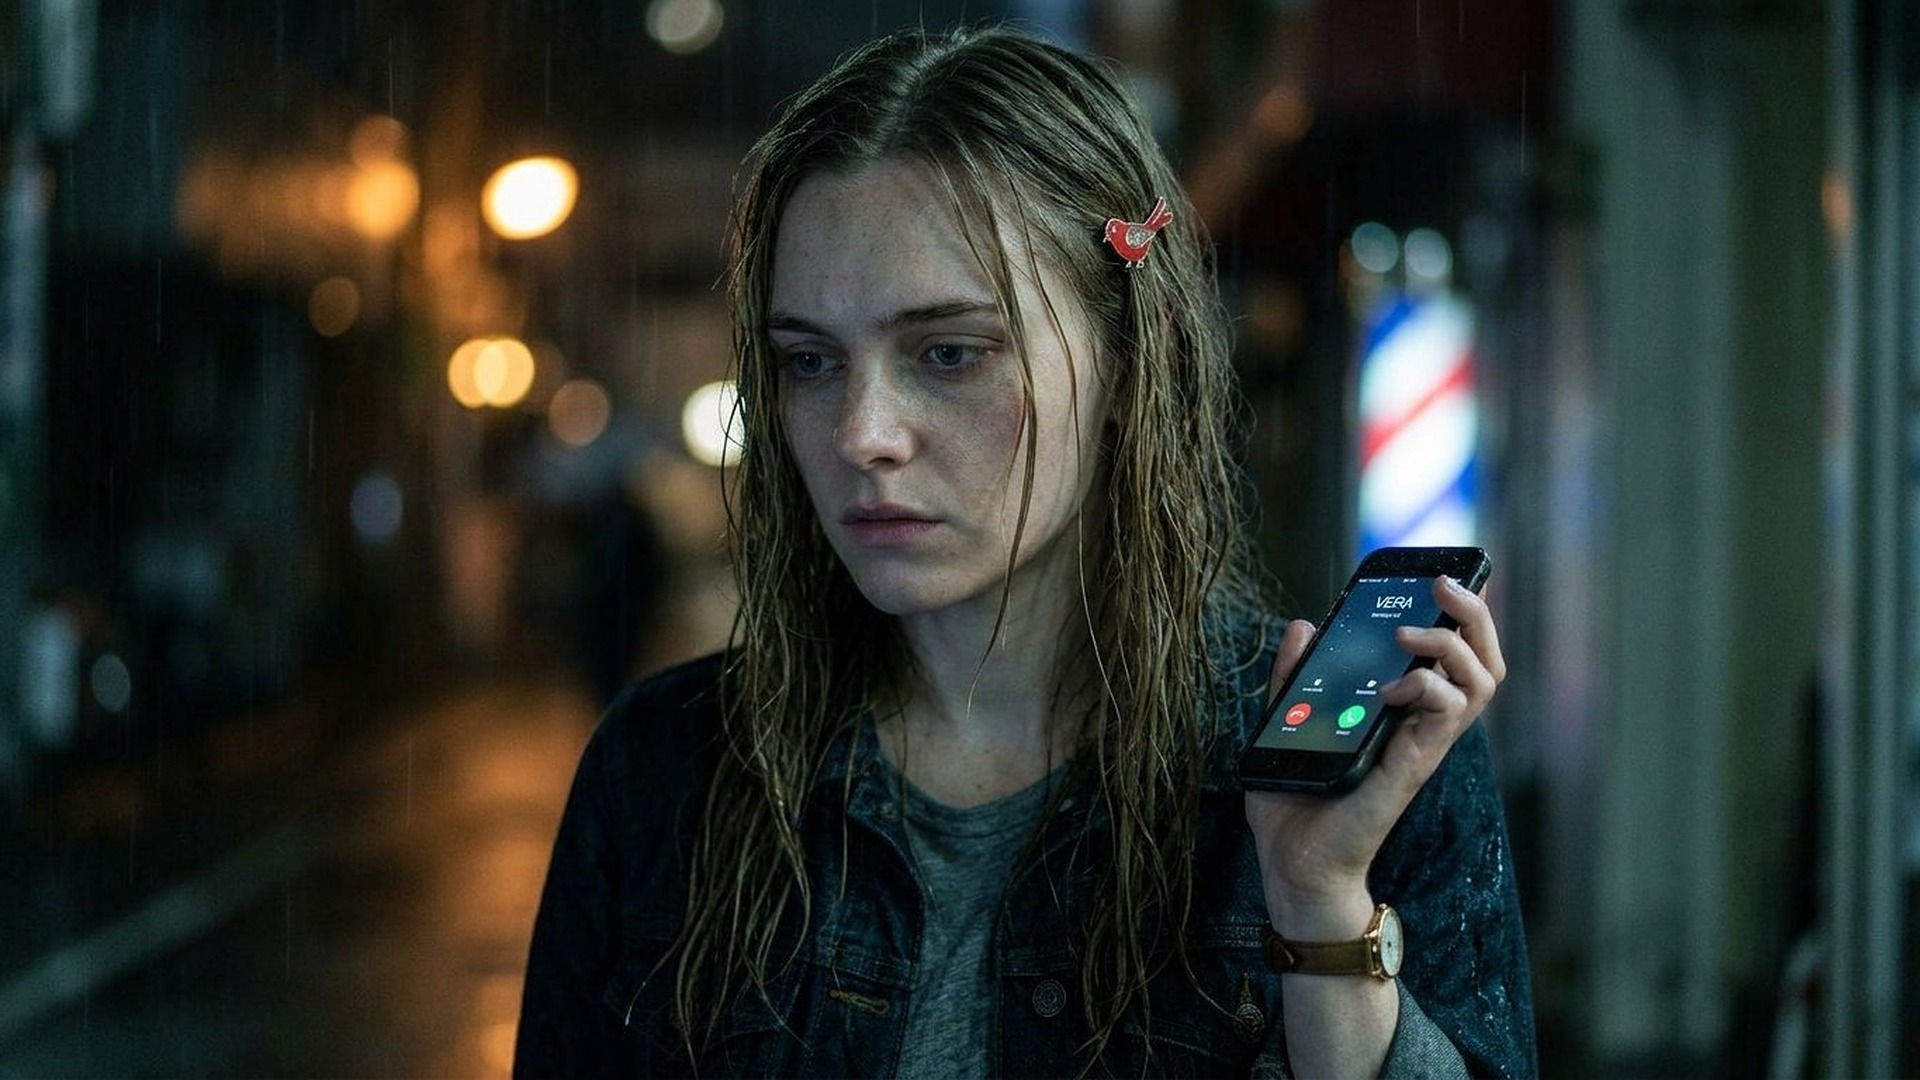
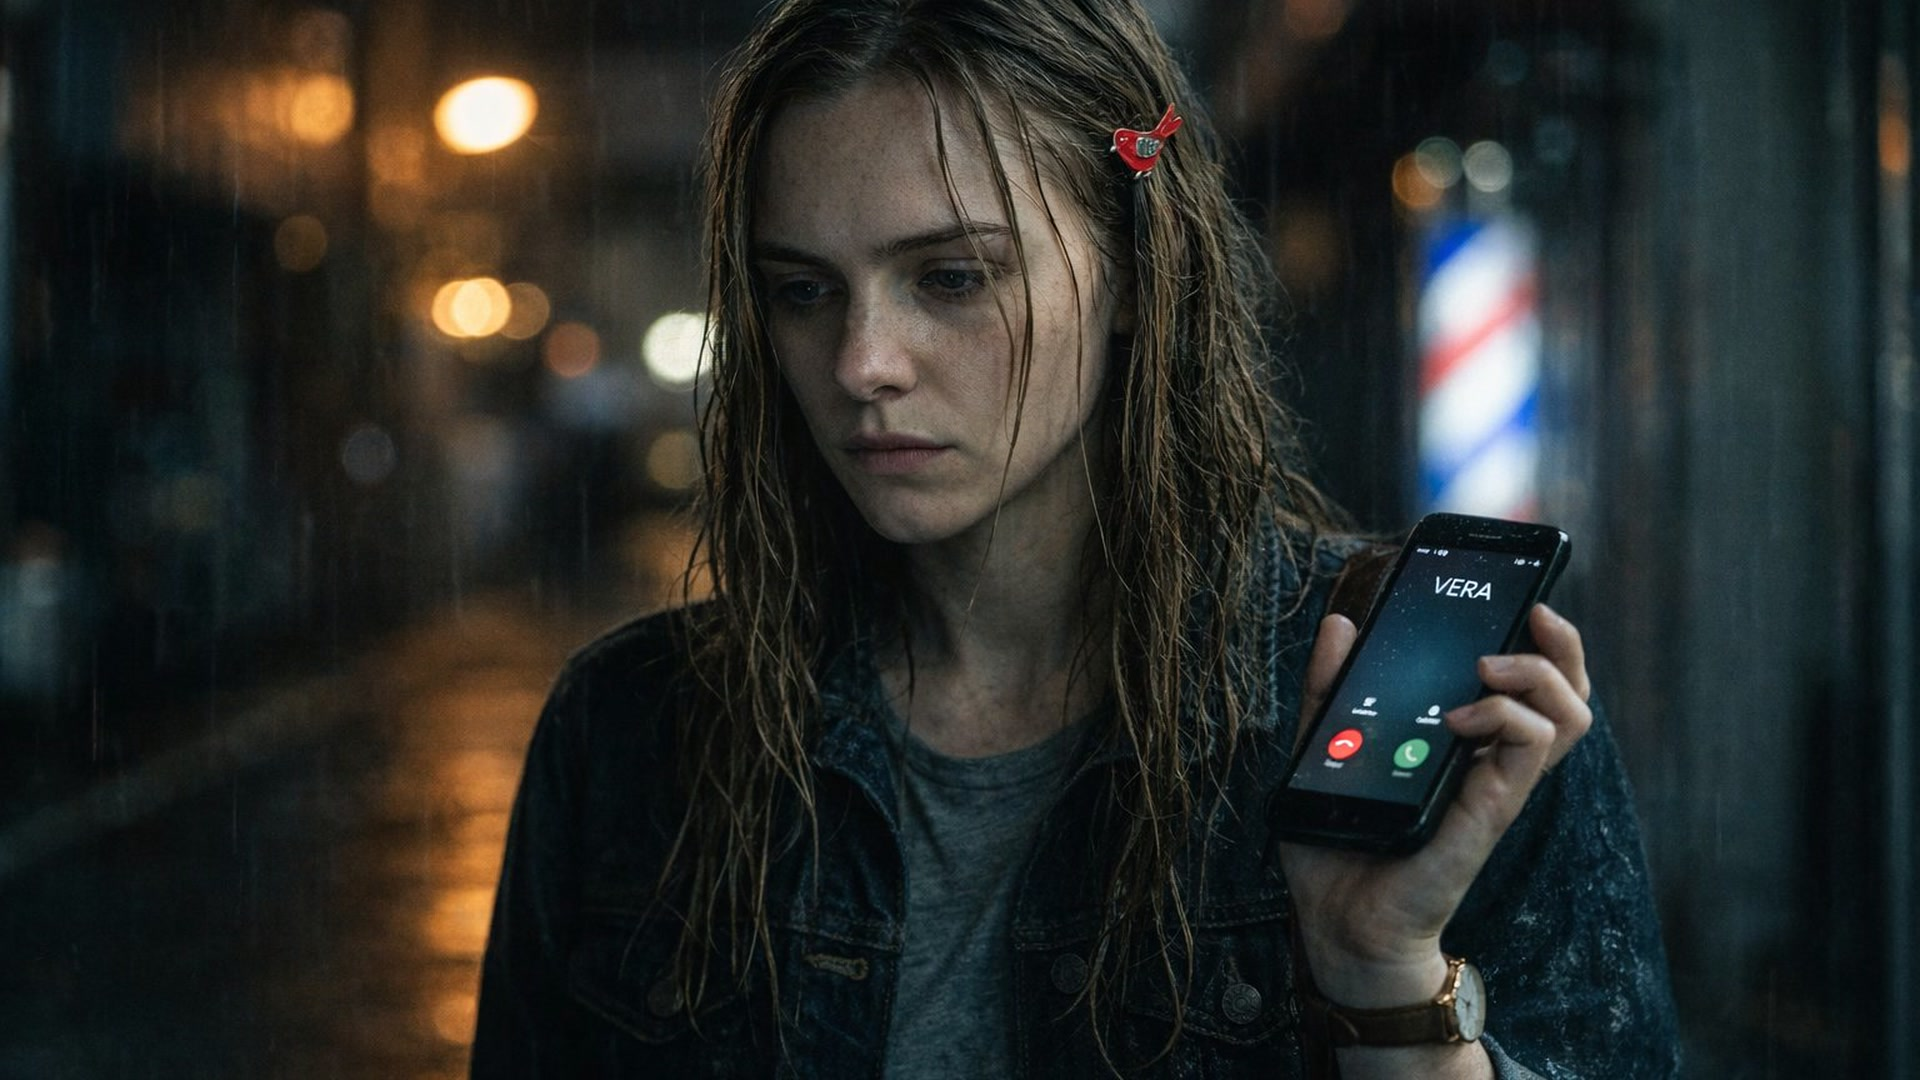
Scene 1: the director's retakes of 04 (Mara and the VERA call) and a larger 328
Installed with tools/install-film-picture.mjs (crop to 16:9, enlarge to
1920x1080, never downscale); previous takes archived as 04-mara-phone--v4
and 328-the-scrap--v2.

Claude-Session: https://claude.ai/code/session_012ydbYCSE5scPimQfDa9uE1

diff --git a/FILM.md b/FILM.md
@@ -32,12 +32,12 @@ Mara (denim jacket, the red clip, the gold watch, the brown bag) and the same Sa
 (crops to 16:9, never downscales, archives the old picture; CLAUDE.md, "Pictures are never downscaled").
 
 **Still to fix, needs image credits (the ElevenLabs account has 238; a referenced frame costs 433):**
-* **04-mara-phone**: the screenplay says "Her phone lights up: VERA. She watches it ring." and the picture has her looking
-  away from the phone. Brief: the `s1_new/style-sheets/mara-voss.jpg` sheet as reference (it is on the ElevenLabs flow
-  `X7nqmG290GG6ek1bFpZb`, node `YlSPT8etwsDBPO0spyC5`); medium close-up, she has stopped and looks *down* at the phone in her
-  right hand, the screen reading VERA and lighting her face from below; barber's pole soft at right, rain, practical light.
-* ~~**328-the-scrap**~~ done 17 October: the director's retake (`s1_retakes/`, "just listen." underlined twice) is
-  installed at 1920×1080 (it came at 1020×572, so it was enlarged); the previous take is `archive/s1/328-the-scrap--v1.jpg`.
+* ~~**04-mara-phone**~~ done 17 October: the director's retake (1536×1024, cropped to 16:9 and enlarged) has her
+  eyes down and the call screen reading VERA. Her gaze reads down rather than squarely on the screen, and the phone's
+  glow does not light her face from below. Previous take `archive/s1/04-mara-phone--v4.jpg`.
+* ~~**328-the-scrap**~~ done 17 October: the director's second, larger retake (1672×941), "just listen." underlined
+  twice and the watch on its thin brown strap as the props sheet has it (the first retake, 1020×572, had a gold
+  bracelet; it is `archive/s1/328-the-scrap--v2.jpg`, the take before it `--v1`). The hands read a little older than 24.
 * **14**: a new lip-sync clip from the new still.
 
 
